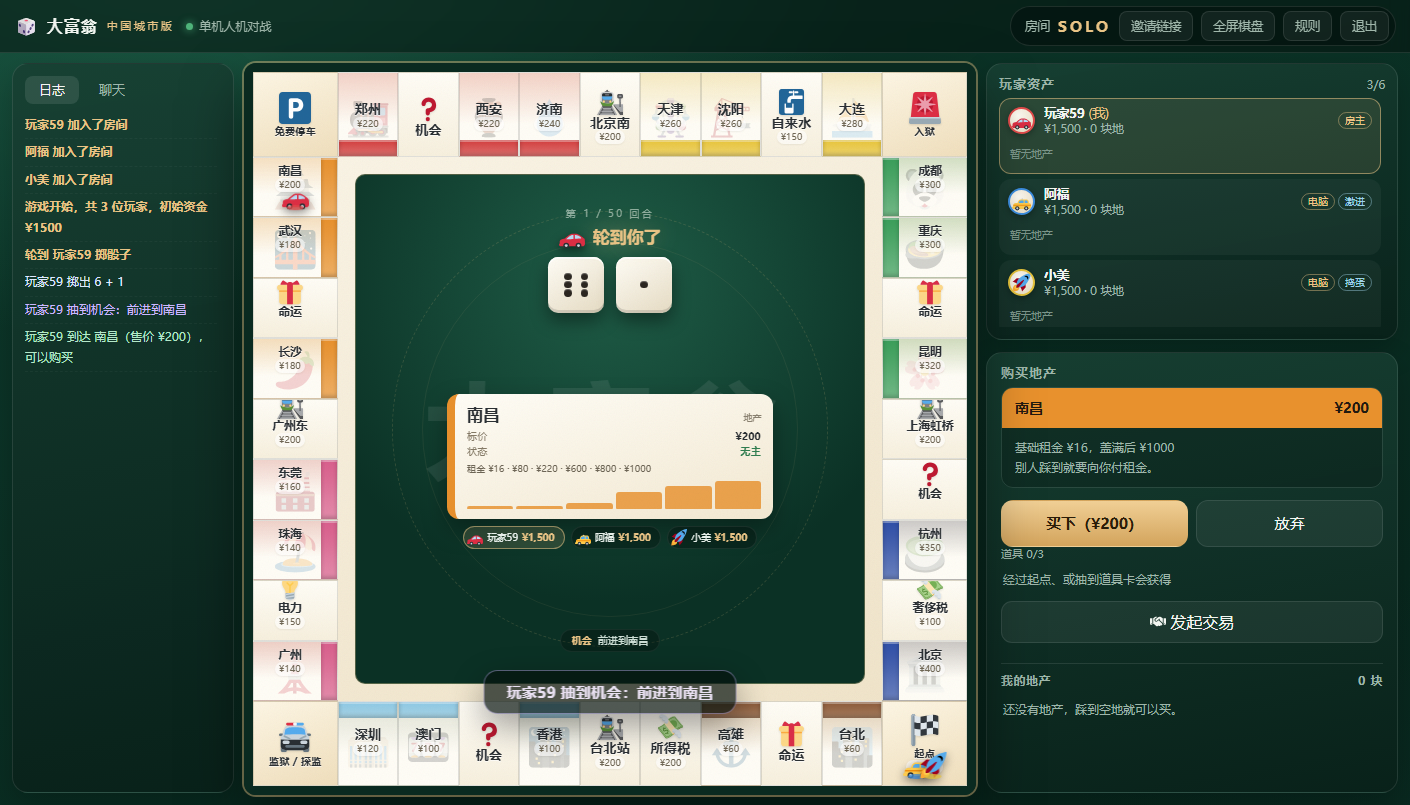
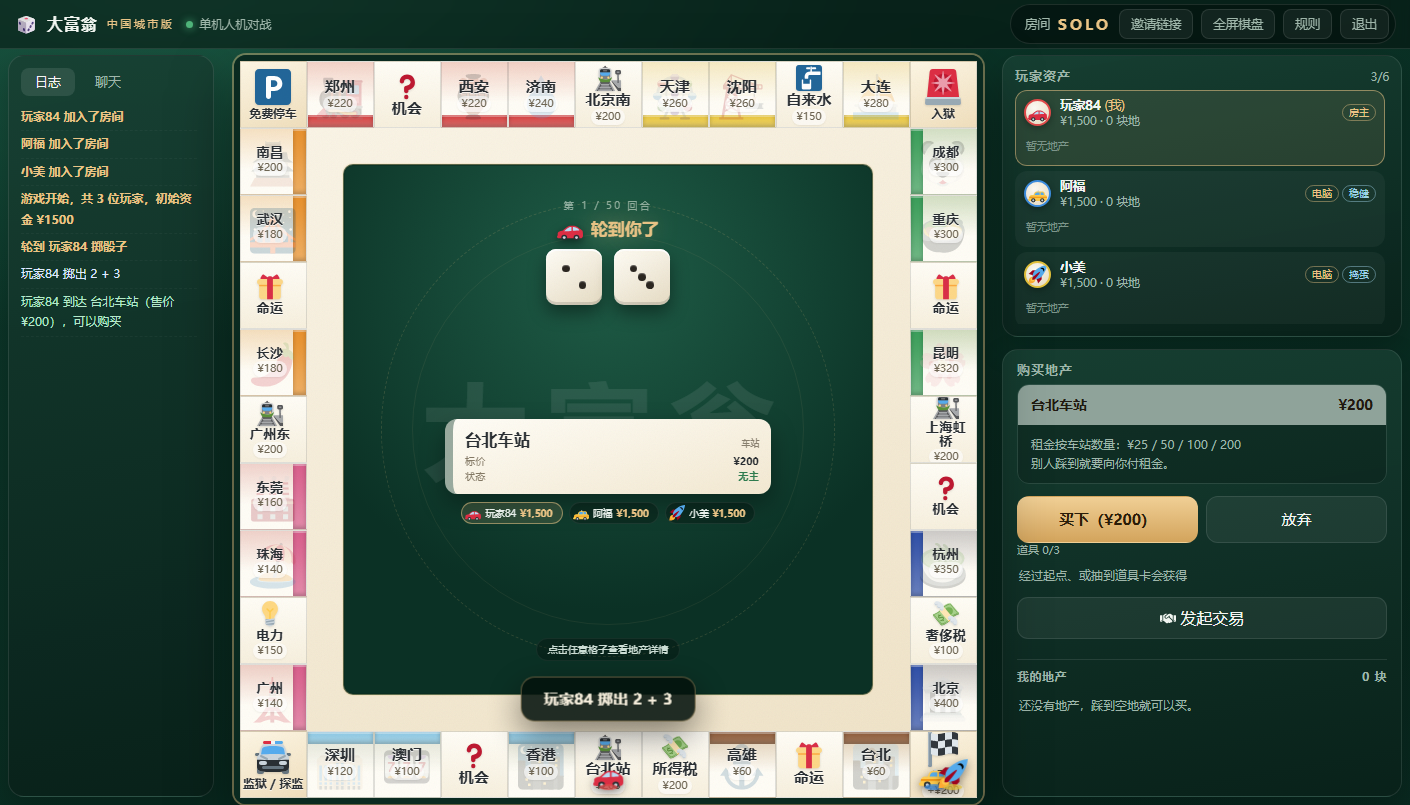
ui: 地格放大

diff --git a/docs/style.css b/docs/style.css
@@ -14,7 +14,7 @@
   --danger: #e2574c;
   --ok: #4fb37a;
   --radius: 16px;
-  --tile-fs: 16px;
+  --tile-fs: 17px;
 }
 
 * { box-sizing: border-box; }
@@ -124,8 +124,8 @@ button, input { font: inherit; color: inherit; }
   display: flex;
   align-items: center;
   gap: 12px;
-  padding: 6px 14px;
-  min-height: 46px;
+  padding: 4px 14px;
+  min-height: 40px;
   border-bottom: 1px solid var(--line);
   background: rgba(3, 16, 12, 0.5);
   backdrop-filter: blur(8px);
@@ -162,9 +162,9 @@ button, input { font: inherit; color: inherit; }
   flex: 1;
   min-height: 0;
   display: grid;
-  grid-template-columns: 222px minmax(0, 1fr) 412px;
-  gap: 10px;
-  padding: 10px 12px 12px;
+  grid-template-columns: 206px minmax(0, 1fr) 400px;
+  gap: 8px;
+  padding: 6px 8px 8px;
 }
 
 .panel {
@@ -264,13 +264,13 @@ button, input { font: inherit; color: inherit; }
 
 .board {
   position: relative;
-  width: min(100%, calc(100dvh - 64px));
+  width: min(100%, calc(100dvh - 56px));
   aspect-ratio: 1 / 1;
   display: grid;
-  grid-template-columns: 1.4fr repeat(9, 1fr) 1.4fr;
-  grid-template-rows: 1.4fr repeat(9, 1fr) 1.4fr;
+  grid-template-columns: repeat(11, 1fr);
+  grid-template-rows: repeat(11, 1fr);
   background: linear-gradient(160deg, #fbf6e9, #efe2c6);
-  border: 9px solid #0a2a20;
+  border: 6px solid #0a2a20;
   border-radius: 12px;
   box-shadow:
     0 0 0 2px rgba(233, 196, 134, 0.42),
@@ -367,11 +367,11 @@ button, input { font: inherit; color: inherit; }
   line-height: 1.5;
   box-shadow: 0 1px 2px rgba(0, 0, 0, 0.06);
 }
-.tile.side-bottom { padding-top: 15%; padding-bottom: 22%; }
-.tile.side-top { padding-bottom: 15%; padding-top: 22%; }
-.tile.side-left { padding-right: 14%; padding-bottom: 22%; }
-.tile.side-right { padding-left: 14%; padding-bottom: 22%; }
-.tile .ico { width: 1.85em; height: 1.85em; object-fit: contain; z-index: 1; filter: drop-shadow(0 1px 1px rgba(0, 0, 0, 0.12)); }
+.tile.side-bottom { padding: 8% 2% 10%; }
+.tile.side-top { padding: 10% 2% 8%; }
+.tile.side-left { padding: 8% 13% 10% 4%; }
+.tile.side-right { padding: 8% 4% 10% 13%; }
+.tile .ico { width: 1.65em; height: 1.65em; object-fit: contain; z-index: 1; filter: drop-shadow(0 1px 1px rgba(0, 0, 0, 0.12)); }
 
 .tile.corner { background: linear-gradient(160deg, #fdf6e4, #f0dfbd); }
 .tile.corner .ico { width: 2.3em; height: 2.3em; }
@@ -427,8 +427,9 @@ button, input { font: inherit; color: inherit; }
 
 .center {
   grid-area: 2 / 2 / 11 / 11;
-  margin: 3.2%;
-  border: 1px solid rgba(233, 196, 134, 0.32);
+  margin: 6%;
+  border: 1px solid rgba(233, 196, 134, 0.36);
+  box-shadow: inset 0 0 0 1px rgba(10, 42, 32, 0.5), 0 0 0 1px rgba(233, 196, 134, 0.18);
   position: relative;
   background:
     radial-gradient(circle at 50% 20%, #1f5d47 0%, #0b3125 68%),

diff --git a/public/style.css b/public/style.css
@@ -14,7 +14,7 @@
   --danger: #e2574c;
   --ok: #4fb37a;
   --radius: 16px;
-  --tile-fs: 16px;
+  --tile-fs: 17px;
 }
 
 * { box-sizing: border-box; }
@@ -124,8 +124,8 @@ button, input { font: inherit; color: inherit; }
   display: flex;
   align-items: center;
   gap: 12px;
-  padding: 6px 14px;
-  min-height: 46px;
+  padding: 4px 14px;
+  min-height: 40px;
   border-bottom: 1px solid var(--line);
   background: rgba(3, 16, 12, 0.5);
   backdrop-filter: blur(8px);
@@ -162,9 +162,9 @@ button, input { font: inherit; color: inherit; }
   flex: 1;
   min-height: 0;
   display: grid;
-  grid-template-columns: 222px minmax(0, 1fr) 412px;
-  gap: 10px;
-  padding: 10px 12px 12px;
+  grid-template-columns: 206px minmax(0, 1fr) 400px;
+  gap: 8px;
+  padding: 6px 8px 8px;
 }
 
 .panel {
@@ -264,13 +264,13 @@ button, input { font: inherit; color: inherit; }
 
 .board {
   position: relative;
-  width: min(100%, calc(100dvh - 64px));
+  width: min(100%, calc(100dvh - 56px));
   aspect-ratio: 1 / 1;
   display: grid;
-  grid-template-columns: 1.4fr repeat(9, 1fr) 1.4fr;
-  grid-template-rows: 1.4fr repeat(9, 1fr) 1.4fr;
+  grid-template-columns: repeat(11, 1fr);
+  grid-template-rows: repeat(11, 1fr);
   background: linear-gradient(160deg, #fbf6e9, #efe2c6);
-  border: 9px solid #0a2a20;
+  border: 6px solid #0a2a20;
   border-radius: 12px;
   box-shadow:
     0 0 0 2px rgba(233, 196, 134, 0.42),
@@ -367,11 +367,11 @@ button, input { font: inherit; color: inherit; }
   line-height: 1.5;
   box-shadow: 0 1px 2px rgba(0, 0, 0, 0.06);
 }
-.tile.side-bottom { padding-top: 15%; padding-bottom: 22%; }
-.tile.side-top { padding-bottom: 15%; padding-top: 22%; }
-.tile.side-left { padding-right: 14%; padding-bottom: 22%; }
-.tile.side-right { padding-left: 14%; padding-bottom: 22%; }
-.tile .ico { width: 1.85em; height: 1.85em; object-fit: contain; z-index: 1; filter: drop-shadow(0 1px 1px rgba(0, 0, 0, 0.12)); }
+.tile.side-bottom { padding: 8% 2% 10%; }
+.tile.side-top { padding: 10% 2% 8%; }
+.tile.side-left { padding: 8% 13% 10% 4%; }
+.tile.side-right { padding: 8% 4% 10% 13%; }
+.tile .ico { width: 1.65em; height: 1.65em; object-fit: contain; z-index: 1; filter: drop-shadow(0 1px 1px rgba(0, 0, 0, 0.12)); }
 
 .tile.corner { background: linear-gradient(160deg, #fdf6e4, #f0dfbd); }
 .tile.corner .ico { width: 2.3em; height: 2.3em; }
@@ -427,8 +427,9 @@ button, input { font: inherit; color: inherit; }
 
 .center {
   grid-area: 2 / 2 / 11 / 11;
-  margin: 3.2%;
-  border: 1px solid rgba(233, 196, 134, 0.32);
+  margin: 6%;
+  border: 1px solid rgba(233, 196, 134, 0.36);
+  box-shadow: inset 0 0 0 1px rgba(10, 42, 32, 0.5), 0 0 0 1px rgba(233, 196, 134, 0.18);
   position: relative;
   background:
     radial-gradient(circle at 50% 20%, #1f5d47 0%, #0b3125 68%),

diff --git a/docs/js/app.js b/docs/js/app.js
@@ -1060,7 +1060,7 @@ function setTileFont() {
   if (!board) return;
   const w = board.clientWidth;
   if (!w) return;
-  board.style.setProperty('--tile-fs', `${Math.max(7, Math.round(w / 50))}px`);
+  board.style.setProperty('--tile-fs', `${Math.max(8, Math.round(w / 45))}px`);
 }
 
 // ---------------- 交互 ----------------

diff --git a/public/js/app.js b/public/js/app.js
@@ -1060,7 +1060,7 @@ function setTileFont() {
   if (!board) return;
   const w = board.clientWidth;
   if (!w) return;
-  board.style.setProperty('--tile-fs', `${Math.max(7, Math.round(w / 50))}px`);
+  board.style.setProperty('--tile-fs', `${Math.max(8, Math.round(w / 45))}px`);
 }
 
 // ---------------- 交互 ----------------
